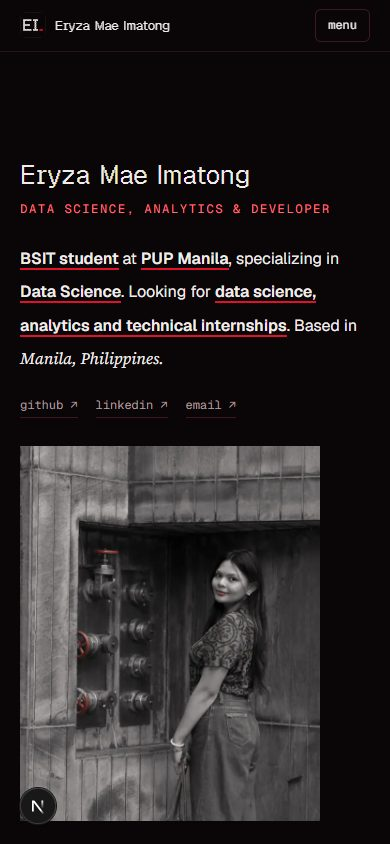
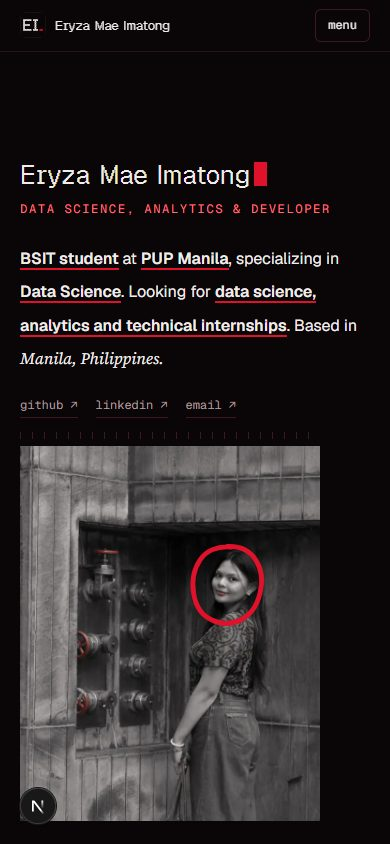
minimal: leadership as a switch panel, contact-sheet marks on the hero photo

Changed region(s): [[0.4615, 0.6161, 0.6769, 0.7701], [0.6462, 0.1848, 0.7077, 0.2464]]

diff --git a/minimal/app/globals.css b/minimal/app/globals.css
@@ -206,29 +206,37 @@ html.js .rv.in { opacity: 1; transform: none; }
 .nf { min-height: 100vh; display: grid; place-content: center; justify-items: start; gap: 14px; padding: var(--pad); max-width: 520px; margin: 0 auto; }
 .nf h1 { font-size: clamp(26px, 5vw, 38px); line-height: 1.1; }
 
-/* ---- leadership org chart ---- */
-.org { margin-top: 26px; }
-.org-chart { position: relative; display: grid; grid-template-columns: 190px minmax(0, 1fr); align-items: stretch; }
-.org-root { align-self: center; position: relative; z-index: 1; display: grid; gap: 6px; justify-items: start; padding-right: 14px; }
-.org-root-name { font: 600 14px/1.3 var(--sans); } .org-root-tag { font-size: 11px; color: var(--dim); letter-spacing: .08em; text-transform: uppercase; }
-.org-lines { position: absolute; left: 0; top: 0; width: 216px; height: 100%; pointer-events: none; }
-.org-nodes { grid-column: 2; display: grid; grid-auto-rows: 1fr; gap: 10px; position: relative; z-index: 1; margin-left: 26px; }
-.org-node { all: unset; box-sizing: border-box; cursor: pointer; display: flex; align-items: center; gap: 14px; padding: 12px 16px; border: 1px solid var(--line); border-radius: 10px; background: var(--surface); transition: border-color .25s, background .25s, transform .25s; }
-.org-node:hover { border-color: var(--line-2); transform: translateX(3px); } .org-node:focus-visible { outline: 2px solid var(--blood-hot); outline-offset: 2px; }
-.org-node.is-on { border-color: var(--blood); background: linear-gradient(90deg, rgba(179,0,27,.14), var(--surface) 70%); }
-.org-logo { width: 40px; height: 40px; border-radius: 50%; background: #f6f1ee; object-fit: contain; flex: none; filter: grayscale(1) contrast(1.05); transition: filter .3s; } .org-node:hover .org-logo, .org-node.is-on .org-logo { filter: none; }
-.org-node-text { display: grid; gap: 3px; min-width: 0; } .org-node-org { font-size: 11px; color: var(--dim); line-height: 1.4; } .org-node.is-on .org-node-org { color: var(--blood-text); }
-.org-node-role { font: 600 14.5px/1.35 var(--sans); }
-.org-panel { margin: 16px 0 0 216px; padding: 18px 20px; border-left: 2px solid var(--blood); background: var(--surface); border-radius: 0 10px 10px 0; animation: org-in .4s cubic-bezier(.22, 1, .36, 1); }
-@keyframes org-in { from { opacity: 0; transform: translateY(6px); } }
-.org-panel-k { font-size: 11px; color: var(--blood-text); letter-spacing: .1em; text-transform: uppercase; } .org-panel-d { margin-top: 8px; line-height: 1.7; }
-.org-panel-links { display: flex; gap: 20px; flex-wrap: wrap; margin-top: 4px; }
-.org-line { fill: none; stroke: var(--line-2); stroke-width: 1; transition: stroke .3s; }
-.org-line.is-hot { stroke: var(--blood); } .org-line.is-on { stroke: var(--blood-hot); stroke-width: 1.5; stroke-dasharray: 6 5; animation: org-flow 1.2s linear infinite; }
-@keyframes org-flow { to { stroke-dashoffset: -22; } }
-@media (max-width: 640px) {
-  .org-chart { grid-template-columns: 1fr; gap: 14px; } .org-lines { display: none; }
-  .org-nodes { grid-column: 1; margin-left: 14px; padding-left: 16px; border-left: 1px solid var(--blood); }
-  .org-panel { margin-left: 14px; }
-}
-@media (prefers-reduced-motion: reduce) { .org-line.is-on { animation: none; stroke-dasharray: none; } .org-panel { animation: none; } }
+/* ---- leadership control panel ---- */
+.pnl { margin-top: 26px; }
+.pnl-bar { display: flex; justify-content: space-between; align-items: center; font-size: 11.5px; color: var(--dim); letter-spacing: .08em; text-transform: uppercase; margin-bottom: 12px; }
+.pnl-all { all: unset; cursor: pointer; color: var(--blood-text); border-bottom: 1px solid transparent; letter-spacing: .08em; } .pnl-all:hover { border-color: var(--blood-text); } .pnl-all:focus-visible { outline: 2px solid var(--blood-hot); outline-offset: 3px; }
+.pnl-list { display: grid; gap: 10px; }
+.pnl-row { border: 1px solid var(--line); border-radius: 10px; background: var(--surface); transition: border-color .3s, background .3s; overflow: hidden; }
+.pnl-row.is-on { border-color: var(--blood); background: linear-gradient(90deg, rgba(179,0,27,.12), var(--surface) 65%); }
+.pnl-head { all: unset; box-sizing: border-box; width: 100%; cursor: pointer; display: flex; align-items: center; gap: 16px; padding: 14px 18px; }
+.pnl-head:focus-visible { outline: 2px solid var(--blood-hot); outline-offset: -2px; border-radius: 10px; }
+.pnl-sw { flex: none; width: 38px; height: 20px; border-radius: 20px; border: 1px solid var(--line-2); background: var(--bg); position: relative; transition: border-color .3s, background .3s; }
+.pnl-sw i { position: absolute; top: 3px; left: 3px; width: 12px; height: 12px; border-radius: 50%; background: var(--dim); transition: transform .3s cubic-bezier(.22, 1, .36, 1), background .3s, box-shadow .3s; }
+.pnl-row.is-on .pnl-sw { border-color: var(--blood); } .pnl-row.is-on .pnl-sw i { transform: translateX(18px); background: var(--blood-hot); box-shadow: 0 0 10px 1px rgba(224,17,43,.7); }
+.pnl-logo { width: 40px; height: 40px; border-radius: 50%; background: #f6f1ee; object-fit: contain; flex: none; filter: grayscale(1) brightness(.55); transition: filter .4s; } .pnl-row.is-on .pnl-logo, .pnl-head:hover .pnl-logo { filter: none; }
+.pnl-text { display: grid; gap: 3px; min-width: 0; flex: 1; } .pnl-org { font-size: 11px; color: var(--dim); line-height: 1.4; } .pnl-row.is-on .pnl-org { color: var(--blood-text); }
+.pnl-role { font: 600 14.5px/1.35 var(--sans); }
+.pnl-state { font-size: 11px; letter-spacing: .12em; text-transform: uppercase; color: var(--dim); width: 2.4em; text-align: right; } .pnl-row.is-on .pnl-state { color: var(--blood-text); }
+.pnl-body { display: grid; grid-template-rows: 0fr; transition: grid-template-rows .45s cubic-bezier(.22, 1, .36, 1); }
+.pnl-row.is-on .pnl-body { grid-template-rows: 1fr; }
+.pnl-inner { overflow: hidden; min-height: 0; padding: 0 18px 0 74px; }
+.pnl-row.is-on .pnl-inner { padding-bottom: 18px; }
+.pnl-detail { line-height: 1.7; }
+.pnl-links { display: flex; gap: 20px; flex-wrap: wrap; }
+@media (max-width: 560px) { .pnl-inner { padding-left: 18px; } .pnl-head { gap: 12px; padding: 12px 14px; } .pnl-state { display: none; } }
+@media (prefers-reduced-motion: reduce) { .pnl-body, .pnl-sw i { transition: none; } }
+
+/* ---- hero photo: contact-sheet marks ---- */
+.hero-photo .ph::after { content: ""; position: absolute; left: 0; right: 0; top: -14px; height: 7px; background: repeating-linear-gradient(90deg, var(--line-2) 0 1px, transparent 1px 12px); pointer-events: none; }
+.ph-ring { position: absolute; inset: 0; z-index: 2; width: 100%; height: 100%; pointer-events: none; overflow: visible; }
+.ph-ring path { fill: none; stroke: var(--blood-hot); stroke-width: 1.6; stroke-linecap: round; stroke-dasharray: 100; stroke-dashoffset: 100; animation: ph-draw 1.1s .5s cubic-bezier(.65, 0, .35, 1) forwards; }
+.hero-photo:hover .ph-ring path { animation: ph-draw 1.1s cubic-bezier(.65, 0, .35, 1) forwards; }
+@keyframes ph-draw { from { stroke-dashoffset: 100; } to { stroke-dashoffset: 0; } }
+.hero-photo figcaption { display: flex; justify-content: space-between; gap: 12px; }
+.hero-photo figcaption .fr { color: var(--blood-text); }
+@media (prefers-reduced-motion: reduce) { .ph-ring path { animation: none; stroke-dashoffset: 0; } }

diff --git a/minimal/components/LeadershipMap.tsx b/minimal/components/LeadershipMap.tsx
@@ -1,64 +1,51 @@
 "use client";
 import { useState } from "react";
 import { OrgButton, type Tile } from "./Dialogs";
-import { Mark } from "./Mark";
 
 type Item = { date: string; title: string; detail: string; chips?: string[]; link?: { href: string; label: string }; orgKey?: string; badge?: { src: string; alt: string } };
 type Cisco = { org: string; role: string; tiles: Tile[] };
 
-/* An org chart: Eryza at the root, one branch per team. The selected branch is lit; its details open underneath. */
-export function LeadershipMap({ items, cisco, name }: { items: Item[]; cisco: Cisco; name: string }) {
-  const [on, setOn] = useState(0);
-  const [hot, setHot] = useState<number | null>(null);
-  const n = items.length;
-  const sel = items[on];
-  const rowY = (i: number) => ((i + 0.5) / n) * 100;
-  const move = (e: React.KeyboardEvent, i: number) => {
-    const d = e.key === "ArrowDown" || e.key === "ArrowRight" ? 1 : e.key === "ArrowUp" || e.key === "ArrowLeft" ? -1 : 0;
-    if (!d) return;
-    e.preventDefault();
-    const j = (i + d + n) % n;
-    setOn(j);
-    (e.currentTarget.parentElement?.children[j] as HTMLElement | undefined)?.focus();
-  };
+/* A control panel: one switch per team. Flip it on and the team's logo lights up and its details open. Several can be on at once. */
+export function LeadershipMap({ items, cisco }: { items: Item[]; cisco: Cisco }) {
+  const [on, setOn] = useState<Set<number>>(new Set([0]));
+  const flip = (i: number) => setOn((s) => { const n = new Set(s); n.has(i) ? n.delete(i) : n.add(i); return n; });
+  const all = on.size === items.length;
+  const setAll = () => setOn(all ? new Set() : new Set(items.map((_, i) => i)));
 
   return (
-    <div className="org">
-      <div className="org-chart">
-        <div className="org-root">
-          <Mark size={34} />
-          <p className="org-root-name">{name}</p>
-          <p className="mono org-root-tag">teams I serve</p>
-        </div>
-        <svg className="org-lines" viewBox="0 0 100 100" preserveAspectRatio="none" aria-hidden="true">
-          {items.map((_, i) => (
-            <path key={i} d={`M0 50 H46 V${rowY(i)} H100`} vectorEffect="non-scaling-stroke" className={"org-line" + (i === on ? " is-on" : "") + (i === hot ? " is-hot" : "")} />
-          ))}
-        </svg>
-        <div className="org-nodes" role="tablist" aria-label="Teams" aria-orientation="vertical">
-          {items.map((it, i) => (
-            <button key={it.title} type="button" role="tab" id={`org-tab-${i}`} aria-selected={i === on} aria-controls="org-panel" tabIndex={i === on ? 0 : -1}
-              className={"org-node" + (i === on ? " is-on" : "")}
-              onClick={() => setOn(i)} onKeyDown={(e) => move(e, i)}
-              onMouseEnter={() => setHot(i)} onMouseLeave={() => setHot(null)} onFocus={() => setHot(i)} onBlur={() => setHot(null)}>
-              {it.badge && <img className="org-logo" src={it.badge.src} alt="" width={40} height={40} loading="lazy" />}
-              <span className="org-node-text">
-                <span className="mono org-node-org">{it.date}</span>
-                <span className="org-node-role">{it.title}</span>
-              </span>
-            </button>
-          ))}
-        </div>
-      </div>
-      <div id="org-panel" role="tabpanel" aria-labelledby={`org-tab-${on}`} className="org-panel" key={on}>
-        <p className="mono org-panel-k">role {String(on + 1).padStart(2, "0")} / {String(n).padStart(2, "0")}</p>
-        <p className="org-panel-d">{sel.detail}</p>
-        {sel.chips && <ul className="chips">{sel.chips.map((c) => <li key={c}>{c}</li>)}</ul>}
-        <div className="org-panel-links">
-          {sel.link && <a className="link mono" href={sel.link.href} target="_blank" rel="noopener">{sel.link.label} →</a>}
-          {sel.orgKey === "cisco" && <OrgButton org={cisco.org} role={cisco.role} tiles={cisco.tiles} />}
-        </div>
-      </div>
+    <div className="pnl">
+      <p className="pnl-bar mono">
+        <span>{on.size} of {items.length} on</span>
+        <button type="button" className="pnl-all" onClick={setAll}>{all ? "switch all off" : "switch all on"}</button>
+      </p>
+      <ul className="pnl-list">
+        {items.map((it, i) => {
+          const lit = on.has(i);
+          return (
+            <li key={it.title} className={"pnl-row" + (lit ? " is-on" : "")}>
+              <button type="button" role="switch" aria-checked={lit} aria-controls={`pnl-d-${i}`} className="pnl-head" onClick={() => flip(i)}>
+                <span className="pnl-sw" aria-hidden="true"><i /></span>
+                {it.badge && <img className="pnl-logo" src={it.badge.src} alt="" width={40} height={40} loading="lazy" />}
+                <span className="pnl-text">
+                  <span className="mono pnl-org">{it.date}</span>
+                  <span className="pnl-role">{it.title}</span>
+                </span>
+                <span className="mono pnl-state" aria-hidden="true">{lit ? "on" : "off"}</span>
+              </button>
+              <div id={`pnl-d-${i}`} className="pnl-body" role="region" aria-label={`${it.title} details`} inert={!lit}>
+                <div className="pnl-inner">
+                  <p className="pnl-detail">{it.detail}</p>
+                  {it.chips && <ul className="chips">{it.chips.map((c) => <li key={c}>{c}</li>)}</ul>}
+                  <div className="pnl-links">
+                    {it.link && <a className="link mono" href={it.link.href} target="_blank" rel="noopener">{it.link.label} →</a>}
+                    {it.orgKey === "cisco" && <OrgButton org={cisco.org} role={cisco.role} tiles={cisco.tiles} />}
+                  </div>
+                </div>
+              </div>
+            </li>
+          );
+        })}
+      </ul>
     </div>
   );
 }

diff --git a/minimal/components/Hero.tsx b/minimal/components/Hero.tsx
@@ -26,8 +26,12 @@ export function Hero() {
             srcSet="/assets/hero-640.webp 640w, /assets/hero-960.webp 960w, /assets/hero-1280.webp 1280w" sizes="(max-width: 900px) 80vw, 340px"
             alt="Eryza Mae Imatong looking back over her shoulder beside a concrete wall of valves. The picture is black and white; only the red valve wheels and her lips keep their colour."
             fetchPriority="high" decoding="async" />
+          {/* a red grease-pencil loop, drawn once around the subject like a marked frame on a contact sheet */}
+          <svg className="ph-ring" viewBox="0 0 100 125" aria-hidden="true">
+            <path pathLength="100" d="M69 33.5 C78 33 82 41 80 49 C78 58 70 61 64 58 C57 55 56 44 60 38 C62 35 66 33 71 33.8" />
+          </svg>
         </div>
-        <figcaption className="mono">{profile.name}</figcaption>
+        <figcaption className="mono"><span className="fr">FR 07 ▸</span><span>{profile.name}</span></figcaption>
       </figure>
     </section>
   );

diff --git a/minimal/components/Sections.tsx b/minimal/components/Sections.tsx
@@ -109,7 +109,7 @@ export function Leadership() {
     <section id="leadership" className="section" aria-labelledby="lead-h">
       <Sec n="05" label="leadership" id="lead-h" />
       <p className="about-sub rv">{leadership.sub}</p>
-      <div className="rv"><LeadershipMap items={leadership.items as never} cisco={ciscoOrg as never} name={profile.name} /></div>
+      <div className="rv"><LeadershipMap items={leadership.items as never} cisco={ciscoOrg as never} /></div>
     </section>
   );
 }
